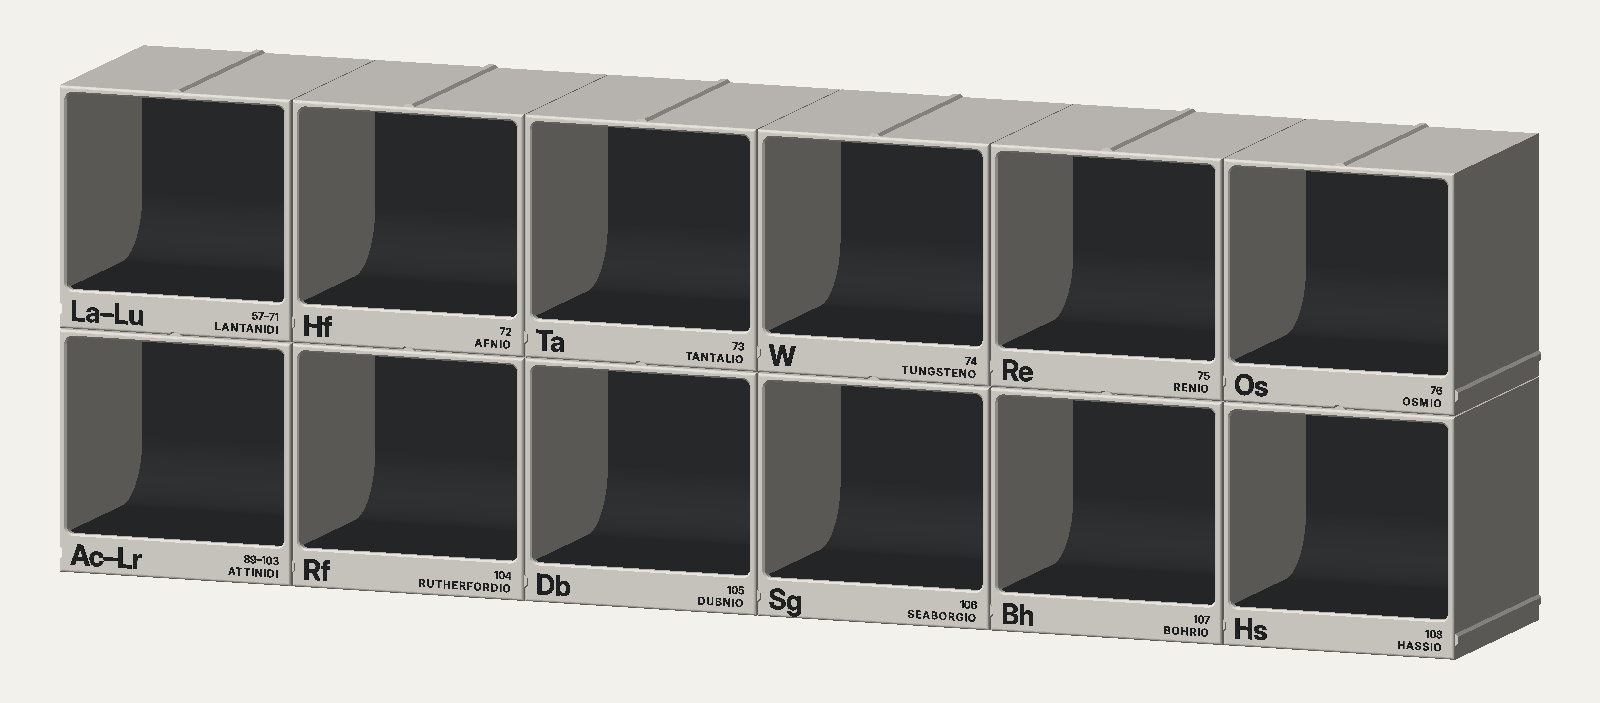
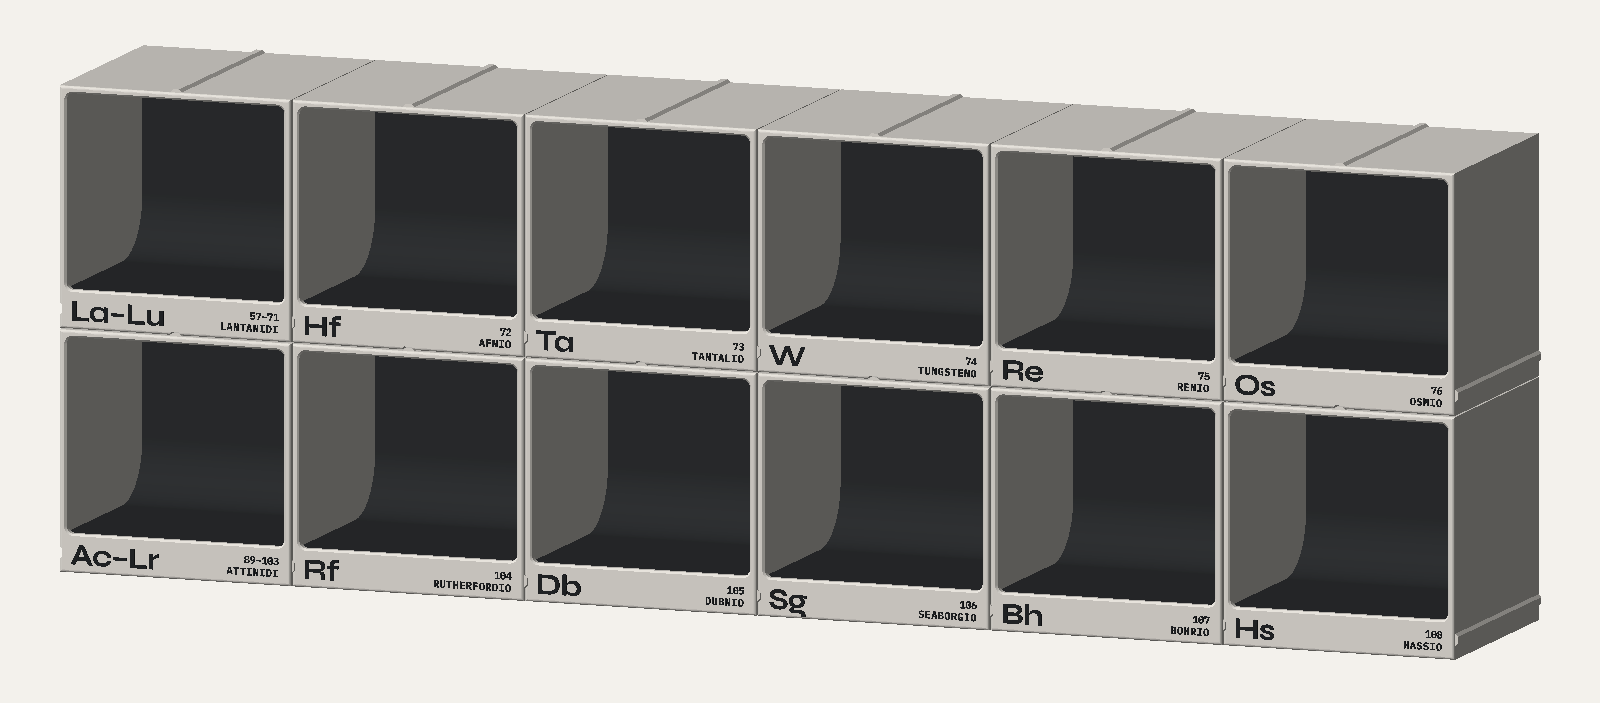
Tavola periodica: render della tavola completa e anteprime aggiornate
Il renderer può riusare gli STL già esportati (USA_STL=1) e disegna il
pannello, così la tavola completa si rende in un paio di minuti.

Claude-Session: https://claude.ai/code/session_01QTU455QTNsnUV2XLd9DWHZ

diff --git a/tavola-periodica/strumenti/render_tavola.py b/tavola-periodica/strumenti/render_tavola.py
@@ -4,7 +4,10 @@ a cambio filamento: corpo neutro e testi in rilievo di un altro colore.
 Con CORNICE=1 nell'ambiente anche la cornice frontale prende il colore
 della categoria (terzo filamento, facoltativo).
 
-uso: render_tavola.py uscita.png riga0 riga1 col0 col1 [azimut elevazione]
+Con USA_STL=1 usa gli STL già esportati in stl/ invece di rigenerarli
+(molto più veloce per la tavola completa) e disegna anche il pannello.
+
+uso: render_tavola.py uscita.png riga0 riga1 col0 col1 [azimut elevazione [pixel]]
 """
 import os
 import subprocess
@@ -24,10 +27,17 @@ import tavola  # noqa: E402
 CORPO = "#ece8e1"
 TESTO = "#26282b"
 PAVIMENTO = "#2f3133"   # fondale
+LEGNO = "#d9c4a0"       # pannello in multistrato
 CORNICE_SP = tavola.quote_dal_modello()["cornice"]
 
 
 def mesh_cubo(c, d):
+    if os.environ.get("USA_STL") == "1":
+        # STL di stampa (retro sul piatto) -> posizione appesa: (X, Y, Z) -> (X, P - Z, Y)
+        m = trimesh.load(os.path.join(tavola.DIR_STL, c["id"] + ".stl"))
+        P = tavola.quote_dal_modello()["profondita"]
+        v = m.vertices
+        return trimesh.Trimesh(np.column_stack([v[:, 0], P - v[:, 2], v[:, 1]]), m.faces)
     out = os.path.join(d, c["id"] + ".stl")
     cmd = tavola.comando_openscad(c, "corpo_appeso", out)
     # parametri in più per provare varianti: SCAD_D="nome_maiuscolo=true;h_nome=3"
@@ -52,7 +62,15 @@ def rendi(uscita, r0, r1, k0, k1, az=-28, el=16, px=1600):
             col = tavola.COLORI_CORNICE.get(c["categoria"], "#999999") \
                 if os.environ.get("CORNICE") == "1" else CORPO
             scena.append((mesh_cubo(c, d), off, col))
-            scena.append((pav, off, None))
+            scena.append((pav, off, PAVIMENTO))
+    if os.environ.get("USA_STL") == "1":
+        # pannello dietro ai cubi, con un bordo di 60 mm
+        q = tavola.quote_dal_modello()
+        w = (k1 - k0 + 1) * passo + 120
+        h = (r1 - r0 + 1) * passo + 120
+        pannello = trimesh.creation.box(extents=[w, 18, h])
+        pannello.apply_translation([w / 2 - 60, q["profondita"] + 9.5, h / 2 - 60])
+        scena.append((pannello, np.zeros(3), LEGNO))
     tutti = np.vstack([m.vertices + o for m, o, _ in scena])
     centro = (tutti.min(0) + tutti.max(0)) / 2
     a, b = np.radians(az), np.radians(el)
@@ -97,8 +115,8 @@ def rendi(uscita, r0, r1, k0, k1, az=-28, el=16, px=1600):
             if not ok.any():
                 continue
             lum = 0.38 + 0.62 * max(0.0, float(nn @ luce))
-            if cornice is None:
-                colore = np.broadcast_to(rgb(PAVIMENTO) * lum, ok.shape + (3,))
+            if cornice in (PAVIMENTO, LEGNO):
+                colore = np.broadcast_to(rgb(cornice) * lum, ok.shape + (3,))
             else:
                 # profondità locale del punto: decide il filamento (strati di stampa)
                 yl = w0 * y_loc[f[0]] + w1 * y_loc[f[1]] + w2 * y_loc[f[2]]
@@ -113,5 +131,5 @@ def rendi(uscita, r0, r1, k0, k1, az=-28, el=16, px=1600):
 
 if __name__ == "__main__":
     a = sys.argv
-    extra = [float(x) for x in a[6:8]]
+    extra = [float(x) for x in a[6:8]] + [int(x) for x in a[8:9]]
     rendi(a[1], int(a[2]), int(a[3]), int(a[4]), int(a[5]), *extra)

diff --git a/tavola-periodica/README.md b/tavola-periodica/README.md
@@ -7,6 +7,8 @@ degli studi fotografici, su cui appoggiare l'oggetto. Si fissa al pannello con
 **una sola vite**, nascosta dietro il fondale. Per cambiare elemento si cambia
 solo il numero atomico.
 
+![Tavola completa](anteprime/tavola_completa_3-4.png)
+
 ![Righe 2-3](anteprime/tavola_righe_2-3.png)
 
 | Cubo singolo | Periodi 6-7 con segnaposto | Blocco f |
@@ -48,7 +50,7 @@ solo il numero atomico.
 | `strumenti/tavola.py` | genera la tabella, calcola i vicini, esporta tutti gli STL, fa lo schema del pannello |
 | `stl/` | 118 elementi + 2 segnaposto già orientati per la stampa, più `comune_fondale.stl` e `comune_dima.stl` |
 | `dati/pannello.svg`, `dati/fori_pannello.csv` | schema e quote di foratura del pannello |
-| `strumenti/render_tavola.py`, `strumenti/anteprima.py` | le immagini di questa pagina |
+| `strumenti/render_tavola.py`, `strumenti/anteprima.py` | le immagini di questa pagina (`USA_STL=1 … 1 10 1 18` per la tavola completa) |
 
 ## Uso
 
